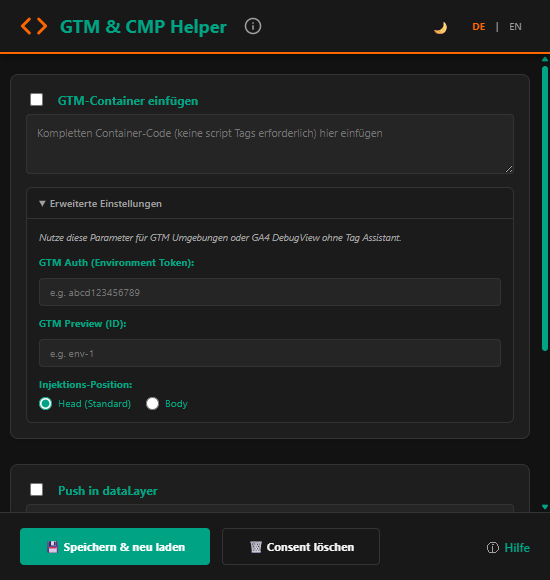
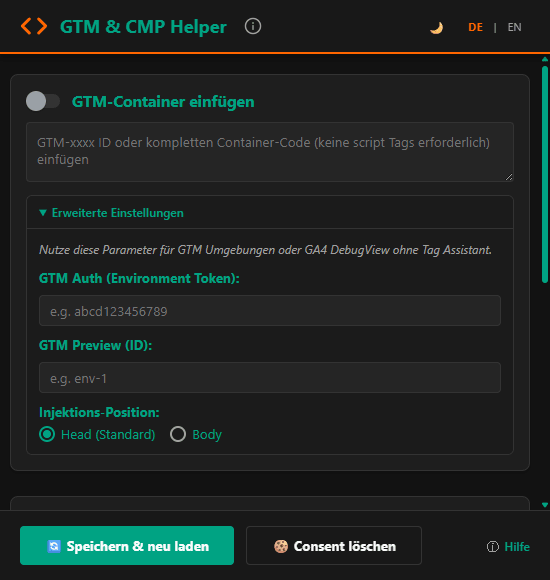
chore(screenshots): Popup-Bilder auf 3.6, Motiv fuer die GTM-UI-Karte, Optimierung
Die Doku-Screenshots waren vom 6. Juli und zeigten noch Kaestchen statt
Schalter und die alten Schriftgroessen. Neu ist popup_gtmui_de mit der
aufgeklappten GTM-UI-Karte; da beim Lauf kein GTM-Tab aktiv ist, zeichnet
das Skript den entsperrten Zustand direkt.

Der Reload laeuft jetzt ueber Playwright statt location.reload() im
evaluate, sonst kann ein Mock noch vor dem Neuladen laufen und verpuffen.
Zum Schluss geht imgopt ueber den Ordner (-58%); fehlt das CLI, bleiben die
Bilder unoptimiert statt den Lauf abzubrechen.

diff --git a/scripts/generate-screenshots.js b/scripts/generate-screenshots.js
@@ -1,6 +1,16 @@
 const { chromium } = require('@playwright/test');
+const { spawnSync } = require('child_process');
 const path = require('path');
 const fs = require('fs');
+
+// imgopt ist ein global installiertes CLI, bewusst kein Dependency — fehlt es, bleiben
+// die Bilder unoptimiert statt den Lauf abzubrechen.
+function optimizeImages(dir) {
+  const result = spawnSync('imgopt', [dir], { stdio: 'inherit', shell: true });
+  if (result.error || result.status !== 0) {
+    console.log('⚠  imgopt nicht ausgeführt — Bilder bleiben unoptimiert.');
+  }
+}
 
 async function generateScreenshots() {
   const extensionPath = path.resolve(__dirname, '..');
@@ -33,6 +43,7 @@ async function generateScreenshots() {
     { name: 'light_de', lang: 'de', theme: 'light', advanced: false },
     { name: 'advanced_open', lang: 'de', theme: 'dark', advanced: true },
     { name: 'detection_de', lang: 'de', theme: 'dark', advanced: false, detection: true },
+    { name: 'gtmui_de', lang: 'de', theme: 'dark', advanced: false, gtmui: true },
   ];
 
   for (const scenario of scenarios) {
@@ -43,8 +54,9 @@ async function generateScreenshots() {
     await page.evaluate((s) => {
       localStorage.setItem('igtm_lang', s.lang);
       localStorage.setItem('igtm_theme', s.theme);
-      window.location.reload(); // Neu laden, um Einstellungen anzuwenden
     }, scenario);
+    // Reload über Playwright, sonst kann ein Mock noch vor dem Neuladen laufen und verpuffen.
+    await page.reload();
 
     // Warten bis geladen
     await page.waitForSelector('#hdng');
@@ -68,10 +80,24 @@ async function generateScreenshots() {
       });
     }
 
+    // Die GTM-UI-Karte ist nur bedienbar, wenn ein GTM-Tab aktiv ist – hier gibt es
+    // keinen, deshalb wird der entsperrte Zustand direkt gezeichnet.
+    if (scenario.gtmui) {
+      await page.evaluate(() => {
+        window.paintGtmUiCard({ enabled: true, features: {} }, true);
+        const scroller = document.querySelector('main');
+        if (scroller) scroller.scrollTop = scroller.scrollHeight;
+      });
+      await page.waitForTimeout(250);
+    }
+
     // Screenshot nur vom Container-Div machen (für saubere Ränder)
     const element = await page.$('.container');
     await element.screenshot({ path: path.join(screenshotDir, `popup_${scenario.name}.png`) });
   }
+
+  console.log('Optimiere Bilder...');
+  optimizeImages(screenshotDir);
 
   console.log('✅ Alle Screenshots wurden im Ordner /screenshots gespeichert!');
   await browserContext.close();
